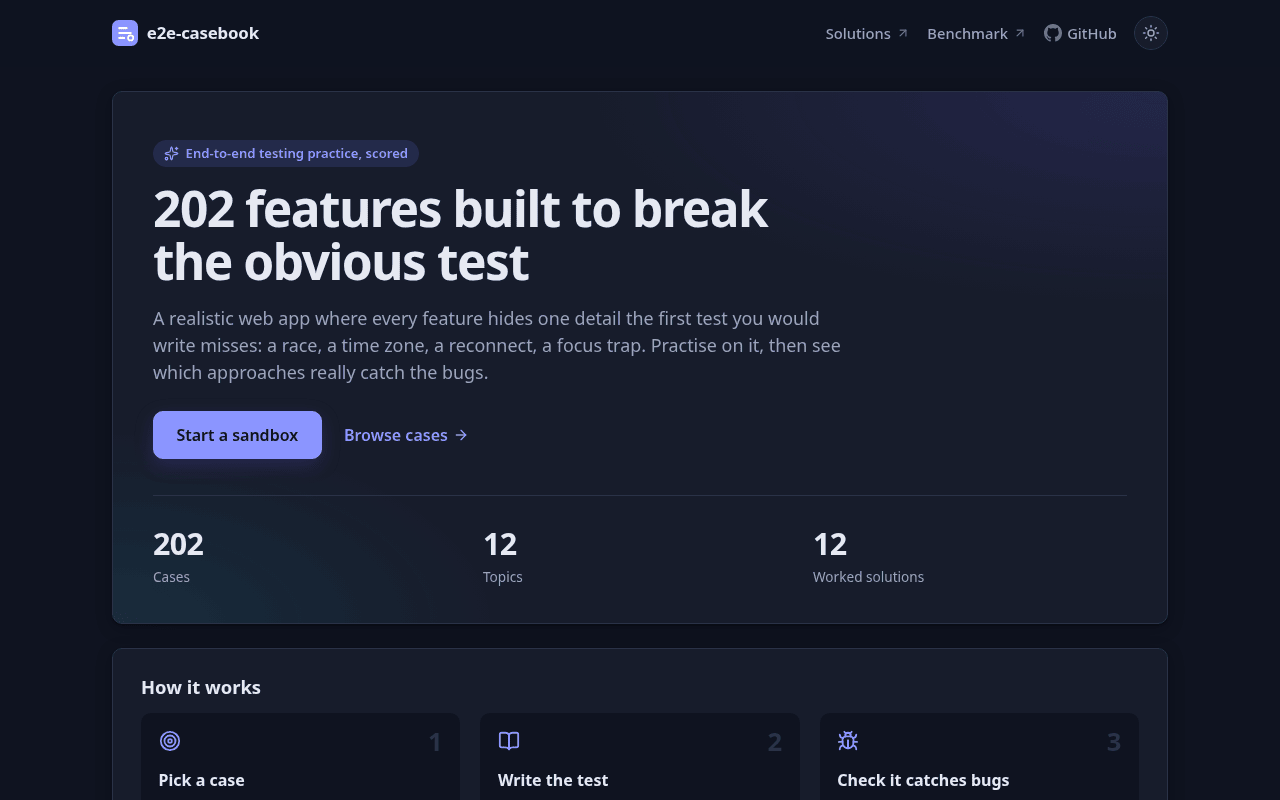
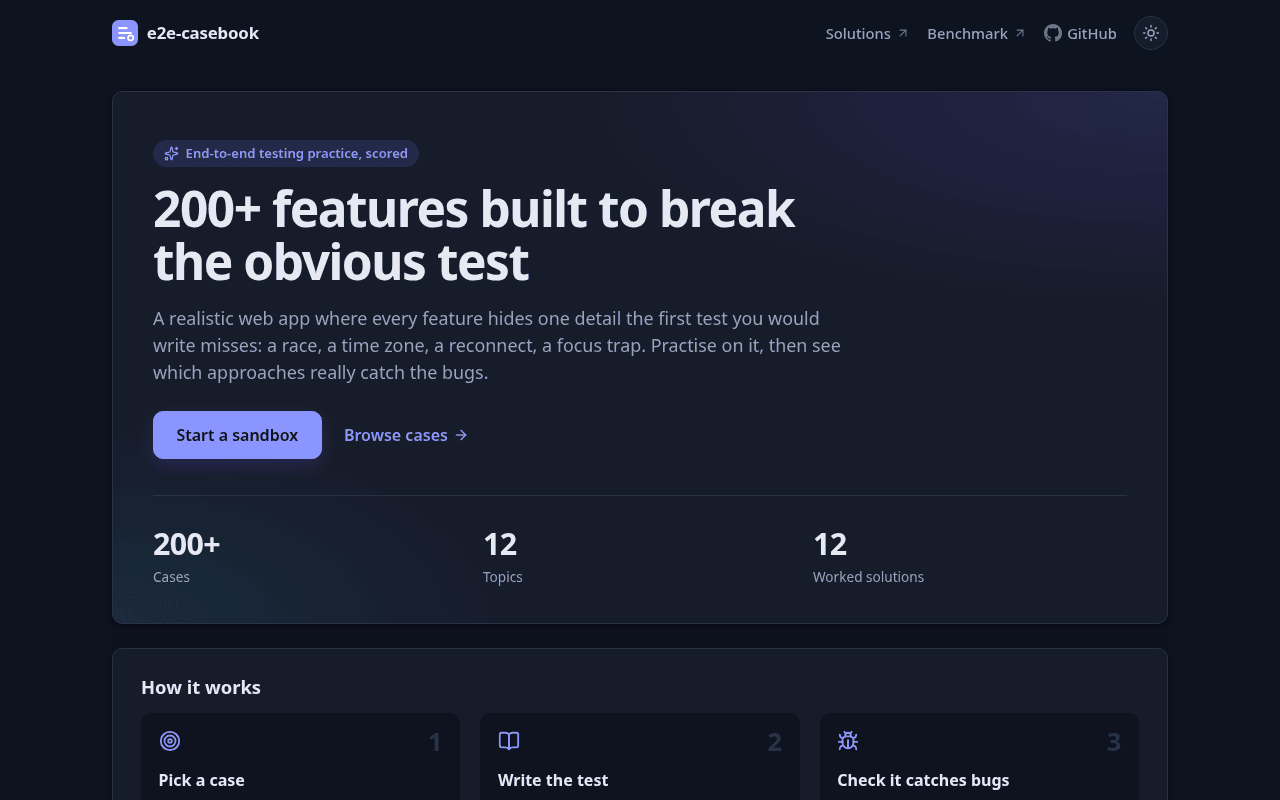
Landing and README: show the case count as 200+, refresh the screenshots

Changed region(s): [[0.1562, 0.2188, 0.625, 0.2812], [0.125, 0.6562, 0.1875, 0.6875]]

diff --git a/web/src/Landing.tsx b/web/src/Landing.tsx
@@ -9,6 +9,7 @@ import { BENCHMARK_URL, CASES, REPO_URL, SOLUTIONS_URL, THEMES, docUrl, solution
 
 const ALL = 'All cases';
 const SOLVED = 'With solution';
+const CASES_SHOWN = `${Math.floor(CASES.length / 100) * 100}+`;
 const solvedCount = CASES.filter((c) => c.solution).length;
 const solvedIn = (theme: string) => CASES.filter((c) => c.theme === theme && c.solution).length;
 
@@ -88,7 +89,7 @@ export function Landing() {
         <p className="eyebrow">
           <Sparkles size={15} aria-hidden="true" /> End-to-end testing practice, scored
         </p>
-        <h1>{CASES.length} features built to break the obvious test</h1>
+        <h1>{CASES_SHOWN} features built to break the obvious test</h1>
         <p className="lead">
           A realistic web app where every feature hides one detail the first test you would write misses: a race, a
           time zone, a reconnect, a focus trap. Practise on it, then see which approaches really catch the bugs.
@@ -105,7 +106,7 @@ export function Landing() {
         <dl className="stats">
           <div>
             <dt>Cases</dt>
-            <dd>{CASES.length}</dd>
+            <dd>{CASES_SHOWN}</dd>
           </div>
           <div>
             <dt>Topics</dt>

diff --git a/README.md b/README.md
@@ -19,7 +19,7 @@ AI agents writing tests for the same cases. The other cases stay unsolved.
 
 ## Start here
 
-202 cases is a lot. These twelve show the range:
+200+ cases is a lot. These twelve show the range:
 
 | Case | Why it is hard to test |
 |---|---|
